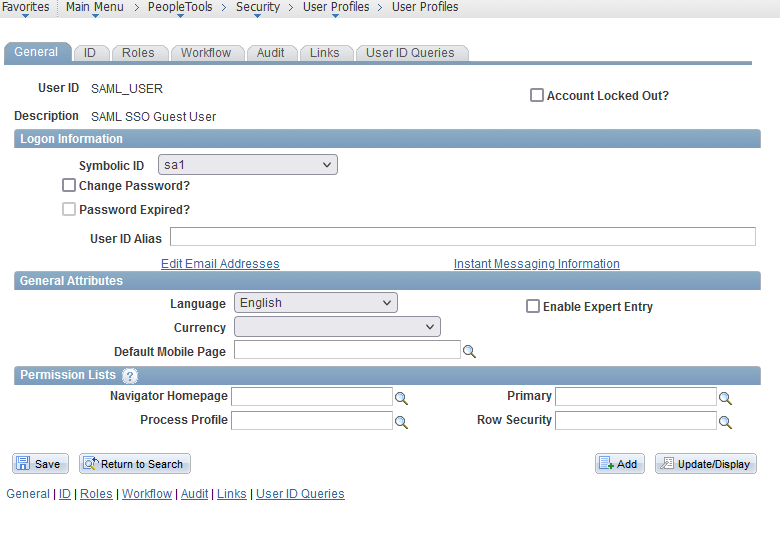
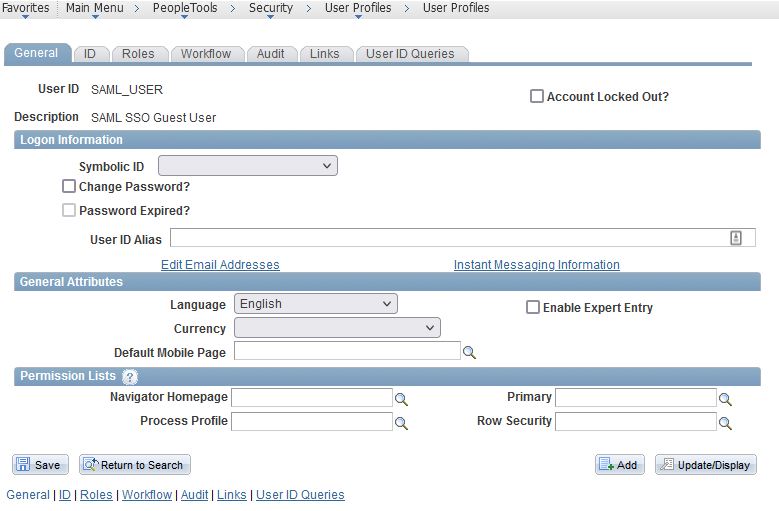
Amended the documentation to show that only one role is required for the guest user. The PeopleSoft project is now fixed so the FUNCLIB record is now marked as a dervied record.

Changed region(s): [[0.0, 0.0587, 0.9859, 0.998], [0.0, 0.0, 0.647, 0.0587]]

diff --git a/README.md b/README.md
@@ -133,9 +133,8 @@ Be sure to save the metadata URL for use later in the [Java setup](#java-code-co
 
 ### User Profile Configuration
 Create a new user profile to be used as a guest user (if your environment
-does not have one already). This user only needs two roles [^1]:
- * The built-in role `Standard Non-Page Permissions` for sign out access
- * A new role for IScript access (see the [iScript setup section](#iscript-for-auth-request))
+does not have one already). This user only needs one role [^1]: A new role for
+IScript access (see the [iScript setup section](#iscript-for-auth-request))
 
 ![Add a new User Profile for guest access](images/PeopleSoft%20guest%20user%20setup%201.png)
 
@@ -143,9 +142,15 @@ Make sure there is no ID specified for the guest user.
 
 ![ID tab of guest User Profile](images/PeopleSoft%20guest%20user%20setup%202.png)
 
-I only set two roles on the guest user.
+I only set the one custom role on the guest user.
 
 ![Roles tab of guest User Profile](images/PeopleSoft%20guest%20user%20setup%203.png)
+
+You may see a warning about a symbolic ID that does not exist if you chose to
+leave it blank. This is OK to ignore and is likely more secure to have no
+symbolic ID on the guest user.
+
+![Missing symbolic ID warning](images/PeopleSoft%20guest%20user%20setup%204.png)
 
 ### Web Profile Configuration
 
